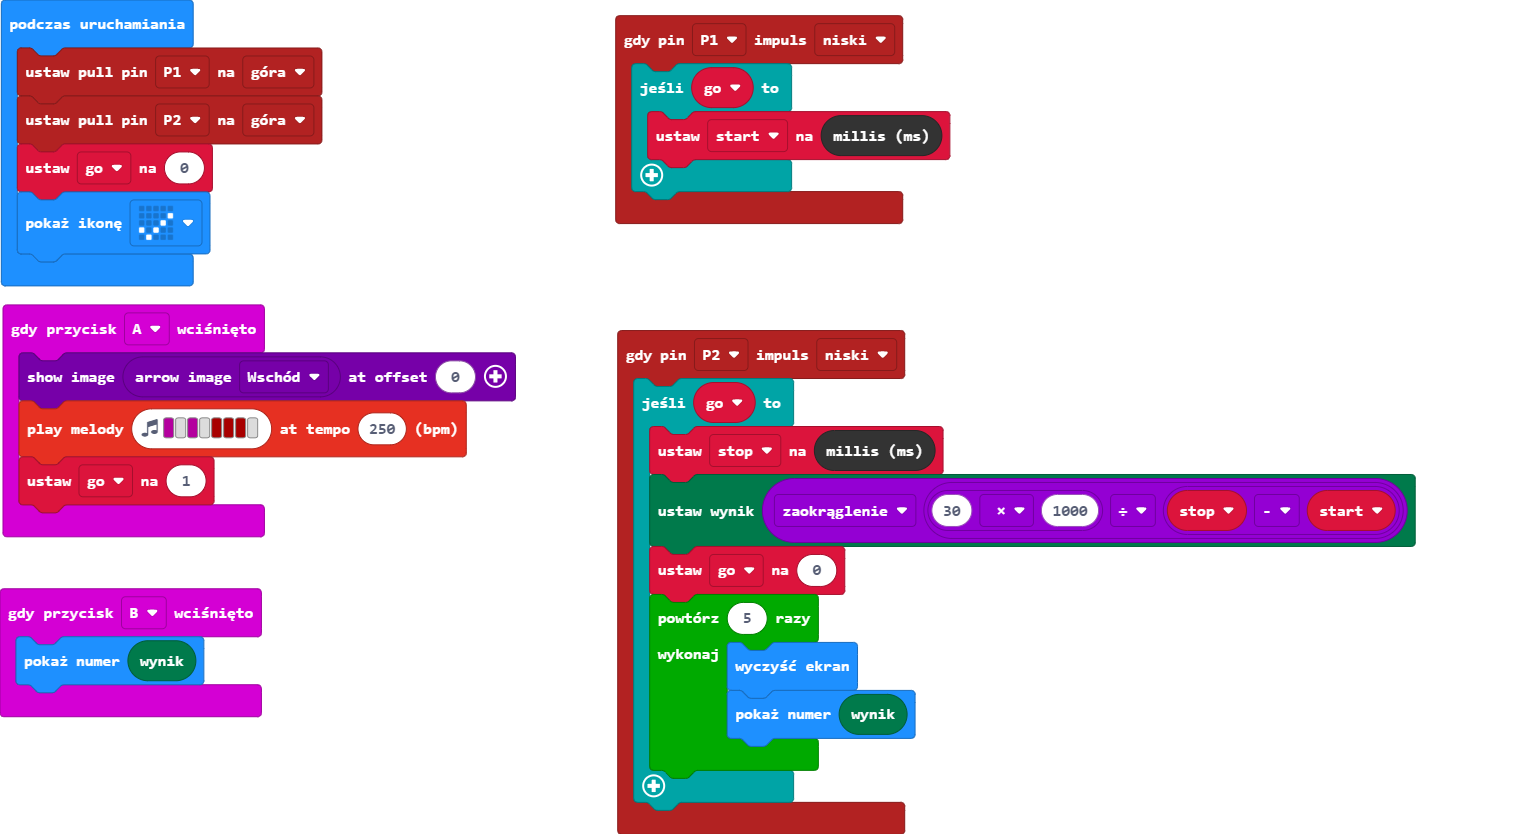
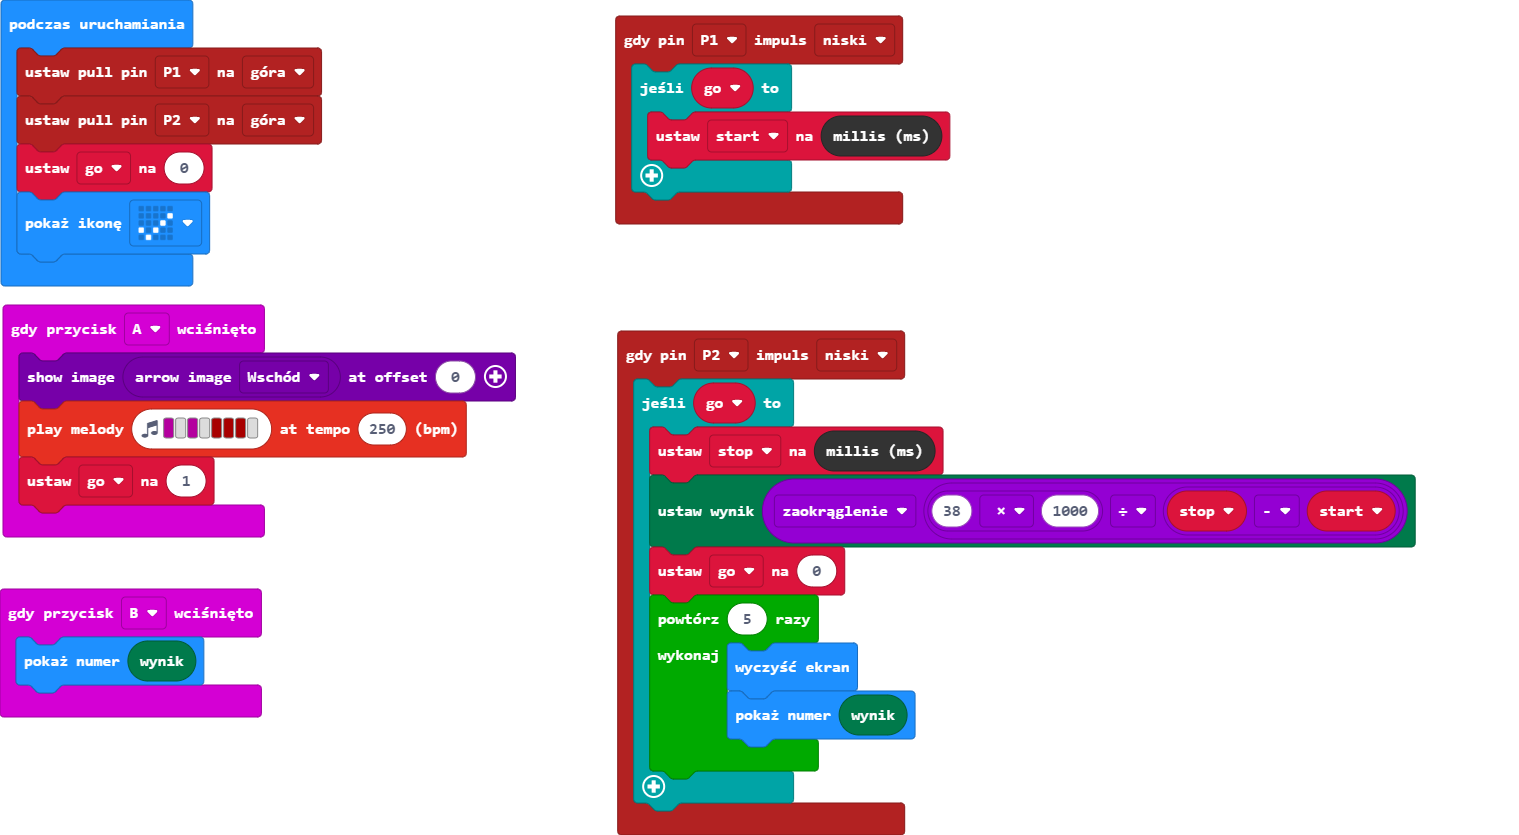
Aktualizacja main.blocks, main.ts

diff --git a/main.ts b/main.ts
@@ -14,7 +14,7 @@ input.onButtonPressed(Button.B, function () {
 pins.onPulsed(DigitalPin.P2, PulseValue.Low, function () {
     if (go) {
         stop = control.millis()
-        game.setScore(Math.round(30 * 1000 / (stop - start)))
+        game.setScore(Math.round(38 * 1000 / (stop - start)))
         go = 0
         for (let index = 0; index < 5; index++) {
             basic.clearScreen()
